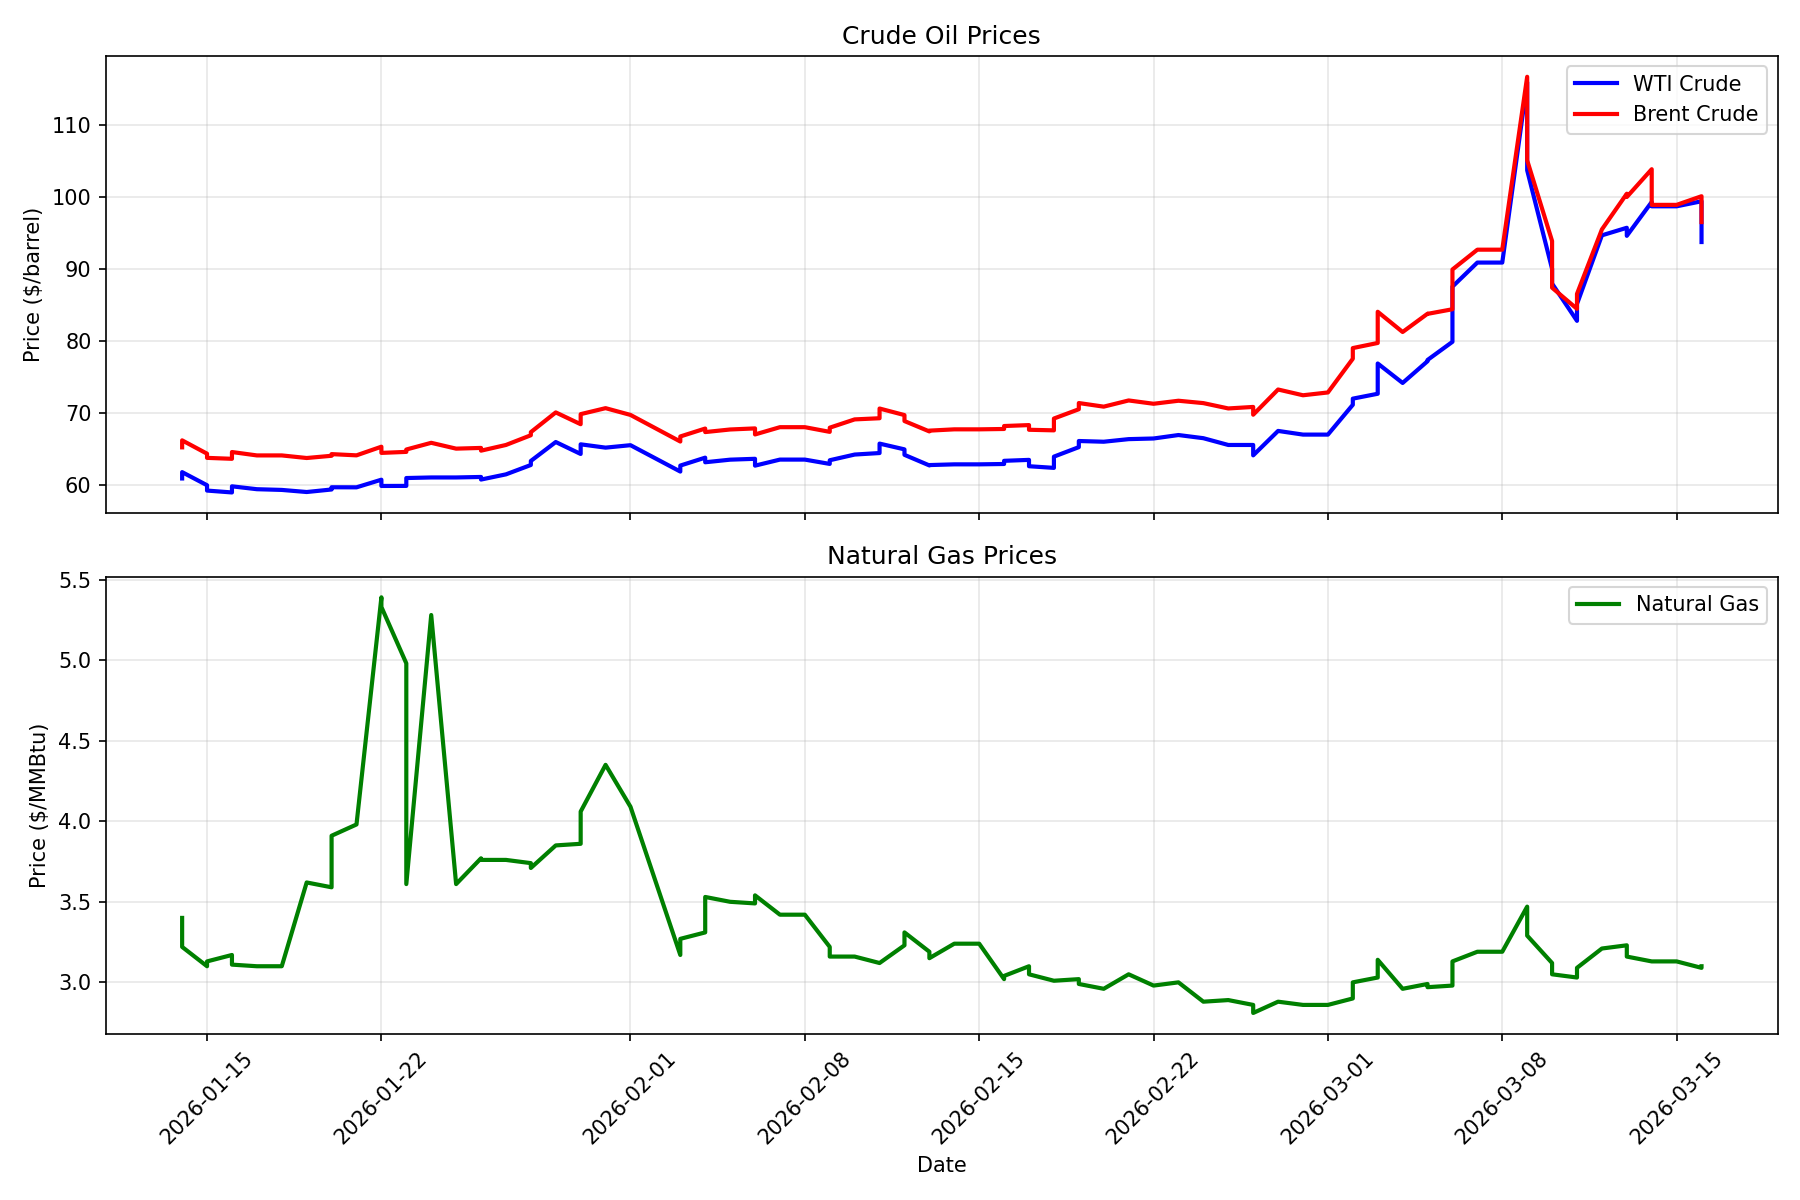
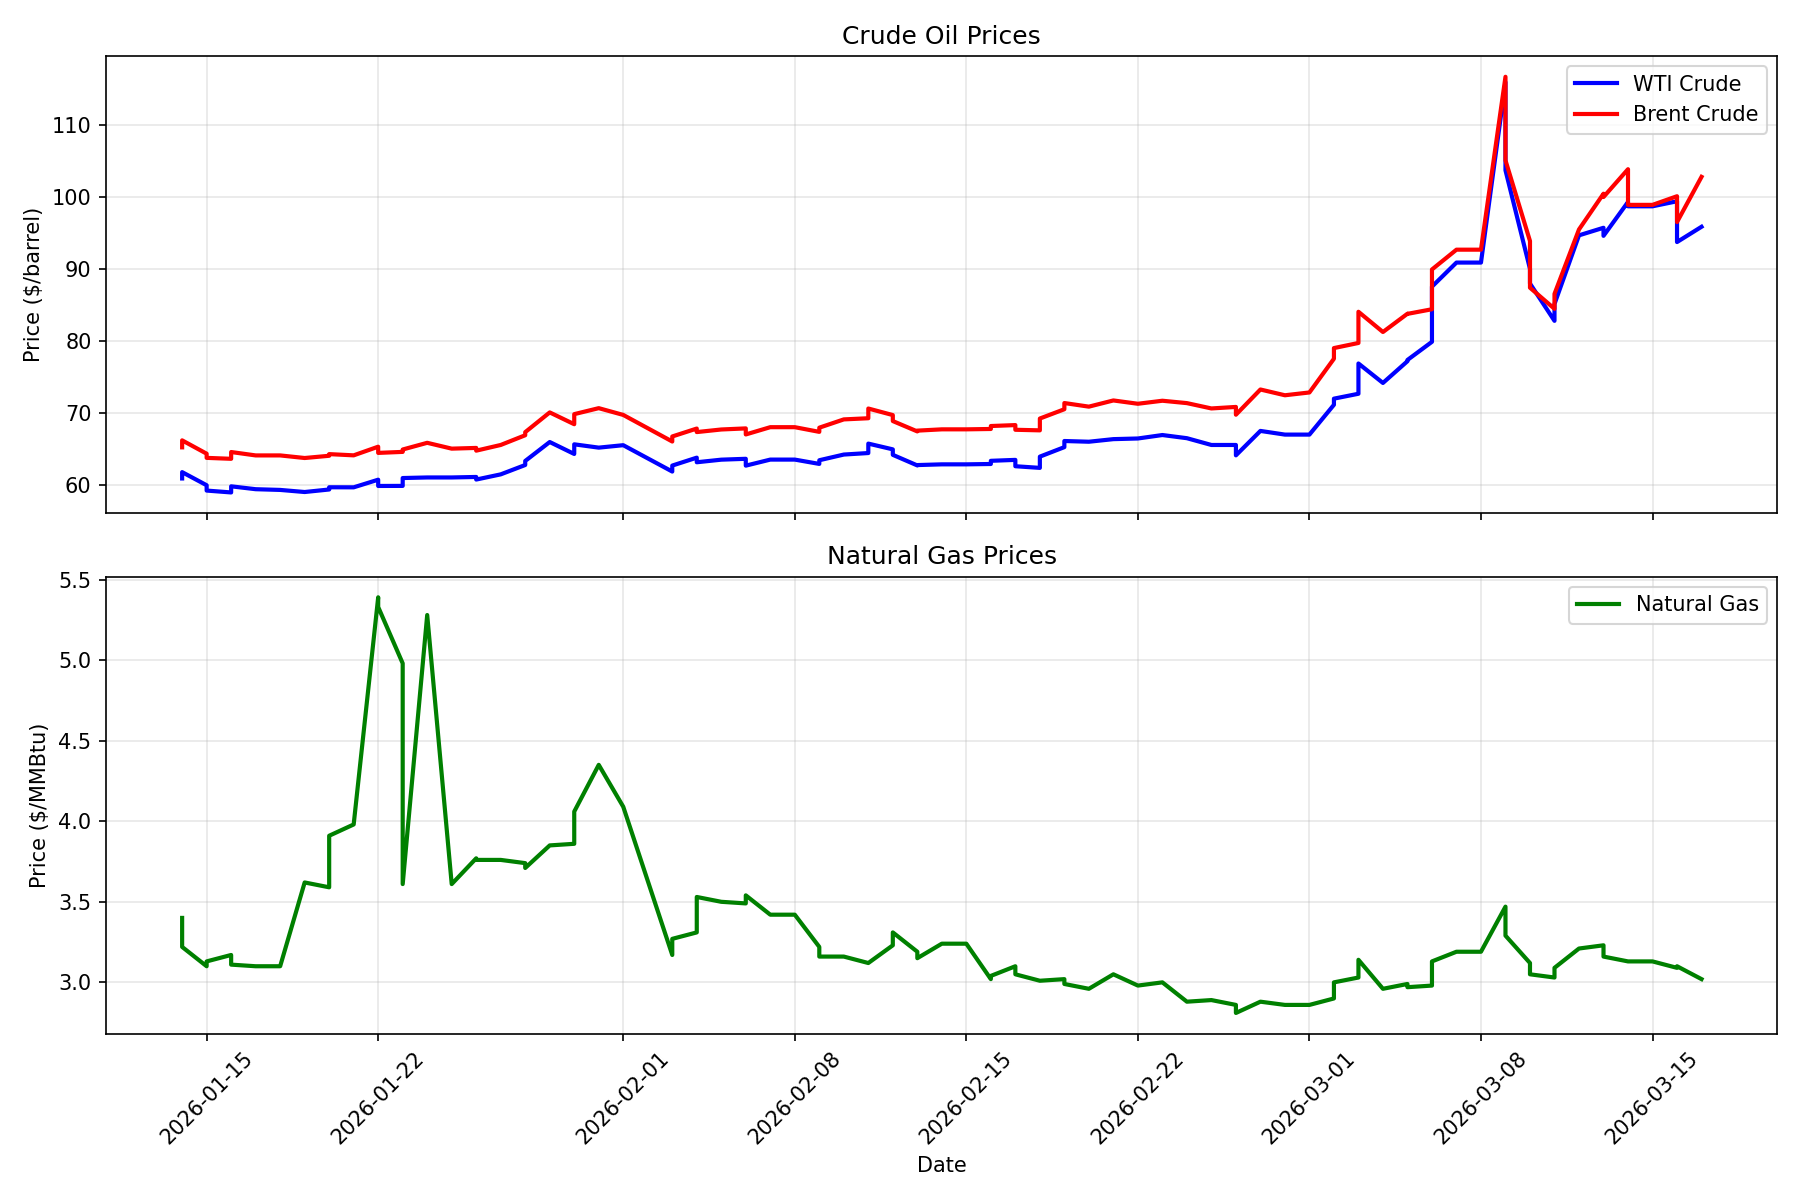
Daily price update: 2026-03-17

diff --git a/README.md b/README.md
@@ -2,29 +2,29 @@
 
 Automated daily tracking of chemical commodity prices and chemical company stocks.
 
-## Latest Prices (Updated: 2026-03-16)
+## Latest Prices (Updated: 2026-03-17)
 
 ### Energy Commodities
 
 | Commodity | Price | Change (24h) | Unit |
 |-----------|-------|--------------|------|
-| WTI Crude Oil | $93.75 | +0.00 (+0.00%) | $/barrel |
-| Brent Crude Oil | $96.52 | +0.00 (+0.00%) | $/barrel |
-| Natural Gas | $3.10 | +0.00 (+0.00%) | $/MMBtu |
-| Heating Oil | $3.70 | +0.00 (+0.00%) | $/gallon |
+| WTI Crude Oil | $95.87 | +0.00 (+0.00%) | $/barrel |
+| Brent Crude Oil | $102.80 | +0.00 (+0.00%) | $/barrel |
+| Natural Gas | $3.02 | +0.00 (+0.00%) | $/MMBtu |
+| Heating Oil | $3.73 | +0.00 (+0.00%) | $/gallon |
 
 ### Chemical Company Stocks
 
 | Company | Ticker | Price | Change (24h) |
 |---------|--------|-------|--------------|
-| Dow Inc. | DOW | $36.62 | +0.00 (+0.00%) |
-| LyondellBasell | LYB | $71.87 | -0.43 (-0.59%) |
-| DuPont | DD | $45.84 | +0.94 (+2.10%) |
-| Air Products | APD | $287.62 | -0.36 (-0.13%) |
-| Linde | LIN | $494.61 | +0.69 (+0.14%) |
-| Eastman Chemical | EMN | $70.57 | +1.32 (+1.91%) |
-| Celanese | CE | $57.11 | -0.63 (-1.09%) |
-| Huntsman | HUN | $12.13 | +0.10 (+0.83%) |
+| Dow Inc. | DOW | $36.00 | -0.62 (-1.69%) |
+| LyondellBasell | LYB | $71.08 | -1.22 (-1.69%) |
+| DuPont | DD | $45.40 | +0.50 (+1.11%) |
+| Air Products | APD | $289.16 | +1.18 (+0.41%) |
+| Linde | LIN | $497.41 | +3.49 (+0.71%) |
+| Eastman Chemical | EMN | $69.57 | +0.32 (+0.46%) |
+| Celanese | CE | $56.07 | -1.67 (-2.89%) |
+| Huntsman | HUN | $11.80 | -0.23 (-1.91%) |
 
 ## Data Sources
 

diff --git a/logs/update_log.md b/logs/update_log.md
@@ -115,3 +115,4 @@ Daily updates to the chemical engineering data repository.
 - **2026-03-15 14:08:16**: Updated 4 energy prices, 8 stocks, 0 FRED series
 - **2026-03-16 00:12:41**: Updated 4 energy prices, 8 stocks, 0 FRED series
 - **2026-03-16 14:25:49**: Updated 4 energy prices, 8 stocks, 0 FRED series
+- **2026-03-17 00:35:03**: Updated 4 energy prices, 8 stocks, 0 FRED series
